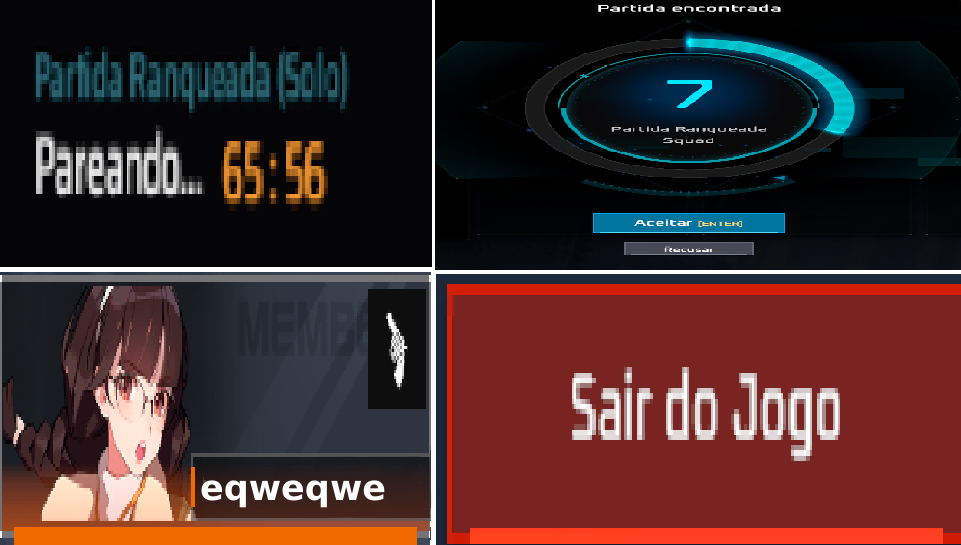
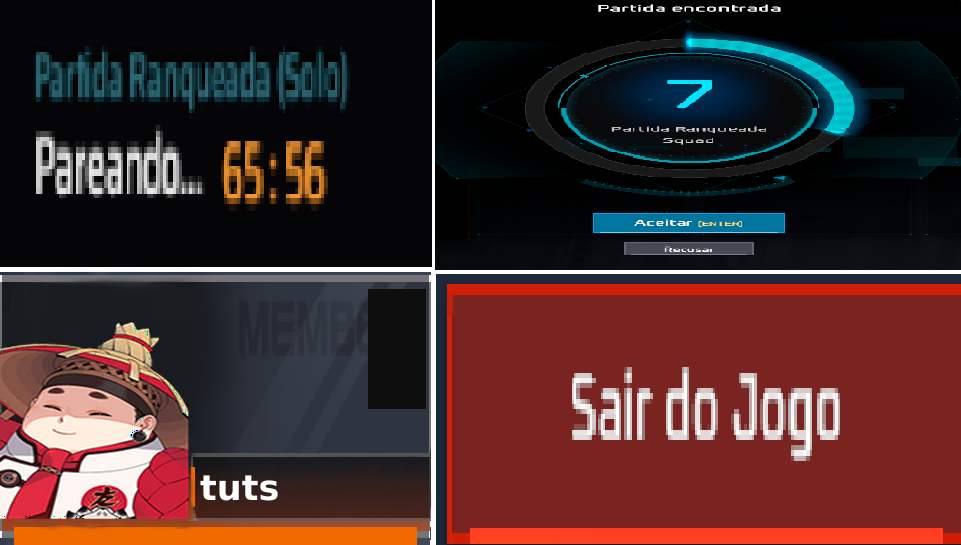
Add files via upload

Changed region(s): [[0.0, 0.4991, 0.4058, 0.967], [0.4058, 0.5927, 0.437, 0.7174]]

diff --git a/src/commands/dodge.go b/src/commands/dodge.go
@@ -5,33 +5,39 @@ import (
 	"image/color"
 	"log"
 	"os"
+	"strings"
 
 	"github.com/bwmarrin/discordgo"
 	"github.com/fogleman/gg"
+	"golang.org/x/text/cases"
+	"golang.org/x/text/language"
 )
 
 const (
-	template = "./src/assets/template.png"
-	final    = "./src/assets/final.png"
+	pathCharacters = "./src/assets/characters"
+	template       = "./src/assets/template.png"
+	final          = "./src/assets/final.png"
 )
 
 func Dodge(s *discordgo.Session, m *discordgo.MessageCreate, args []string) {
 
-	if len(args) < 2 {
-		s.ChannelMessageSendReply(m.ChannelID, "Adicione um nickname.", m.Reference())
+	if len(args) < 3 {
+		s.ChannelMessageSendReply(m.ChannelID, "Digite o nome de um personagem e um nickname. \nExemplo: **!dodge aya skye**", m.Reference())
 		return
 	}
 
-	nickname := args[1]
+	character := strings.ToLower(args[1])
+	nickname := args[2]
+
 	if len(nickname) >= 16 {
 		s.ChannelMessageSendReply(m.ChannelID, "Nickname precisa ter até 16 digitos.", m.Reference())
 		return
 	}
 
-	generateImage(nickname, s, m)
+	generateImage(character, nickname, s, m)
 }
 
-func generateImage(nickname string, s *discordgo.Session, m *discordgo.MessageCreate) {
+func generateImage(character string, nickname string, s *discordgo.Session, m *discordgo.MessageCreate) {
 
 	message, _ := s.ChannelMessageSendReply(m.ChannelID, "Imagem está sendo gerada. Aguarde alguns segundos.", m.Reference())
 
@@ -47,7 +53,24 @@ func generateImage(nickname string, s *discordgo.Session, m *discordgo.MessageCr
 		log.Fatal(err)
 	}
 
+	characters, err := loadCharacter(character, s, m)
+	if err != nil {
+		if len(characters) == 0 {
+			s.ChannelMessageEdit(m.ChannelID, message.ID, "Atualmente não possui nenhuma imagem de personagem disponível. \nEnvie uma mensagem para <@811913211737014322> avisando sobre a situação.")
+			return
+		}
+
+		s.ChannelMessageEdit(m.ChannelID, message.ID, fmt.Sprintf("**%s** não foi encontrado. Digite o nome de outro personagem. \nPersonagens: **%s**", character, characters))
+		return
+	}
+
+	characterImage, err := gg.LoadImage(pathCharacters + characters)
+	if err != nil {
+		log.Fatal(err)
+	}
+
 	dc.DrawString(nickname, 200.0, 500.0)
+	dc.DrawImage(characterImage, -10.0, 320.0)
 
 	err = dc.SavePNG(final)
 	if err != nil {
@@ -91,4 +114,28 @@ func loadImage(author string) *discordgo.MessageSend {
 	}
 
 	return &image
+}
+
+func loadCharacter(c string, s *discordgo.Session, m *discordgo.MessageCreate) (string, error) {
+	list, err := os.ReadDir(pathCharacters)
+	if err != nil {
+		s.ChannelMessageSendReply(m.ChannelID, "Ocorreu um erro ao carregar a lista de personagens.", m.Reference())
+	}
+
+	var png string
+	var characterList []string
+
+	for _, character := range list {
+		if strings.Replace(character.Name(), ".png", "", 1) == c {
+			png = character.Name()
+			break
+		}
+		characterList = append(characterList, cases.Title(language.Und, cases.NoLower).String(strings.Replace(character.Name(), ".png", "", 1)))
+	}
+
+	if len(png) == 0 {
+		return strings.Join(characterList, ", "), fmt.Errorf(c)
+	}
+
+	return "/" + png, nil
 }
